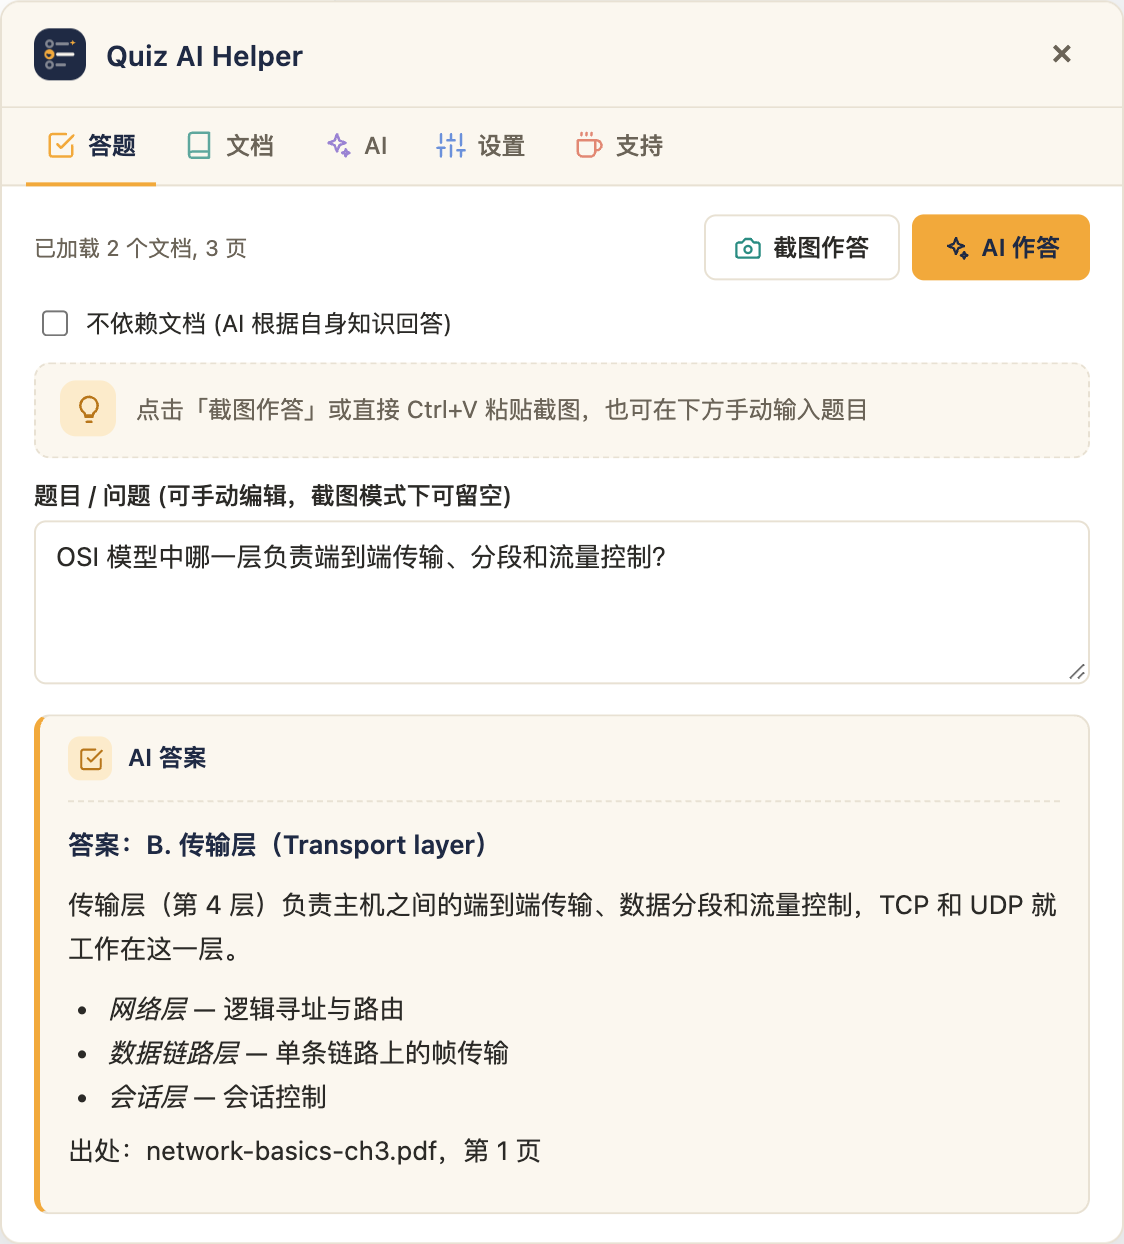
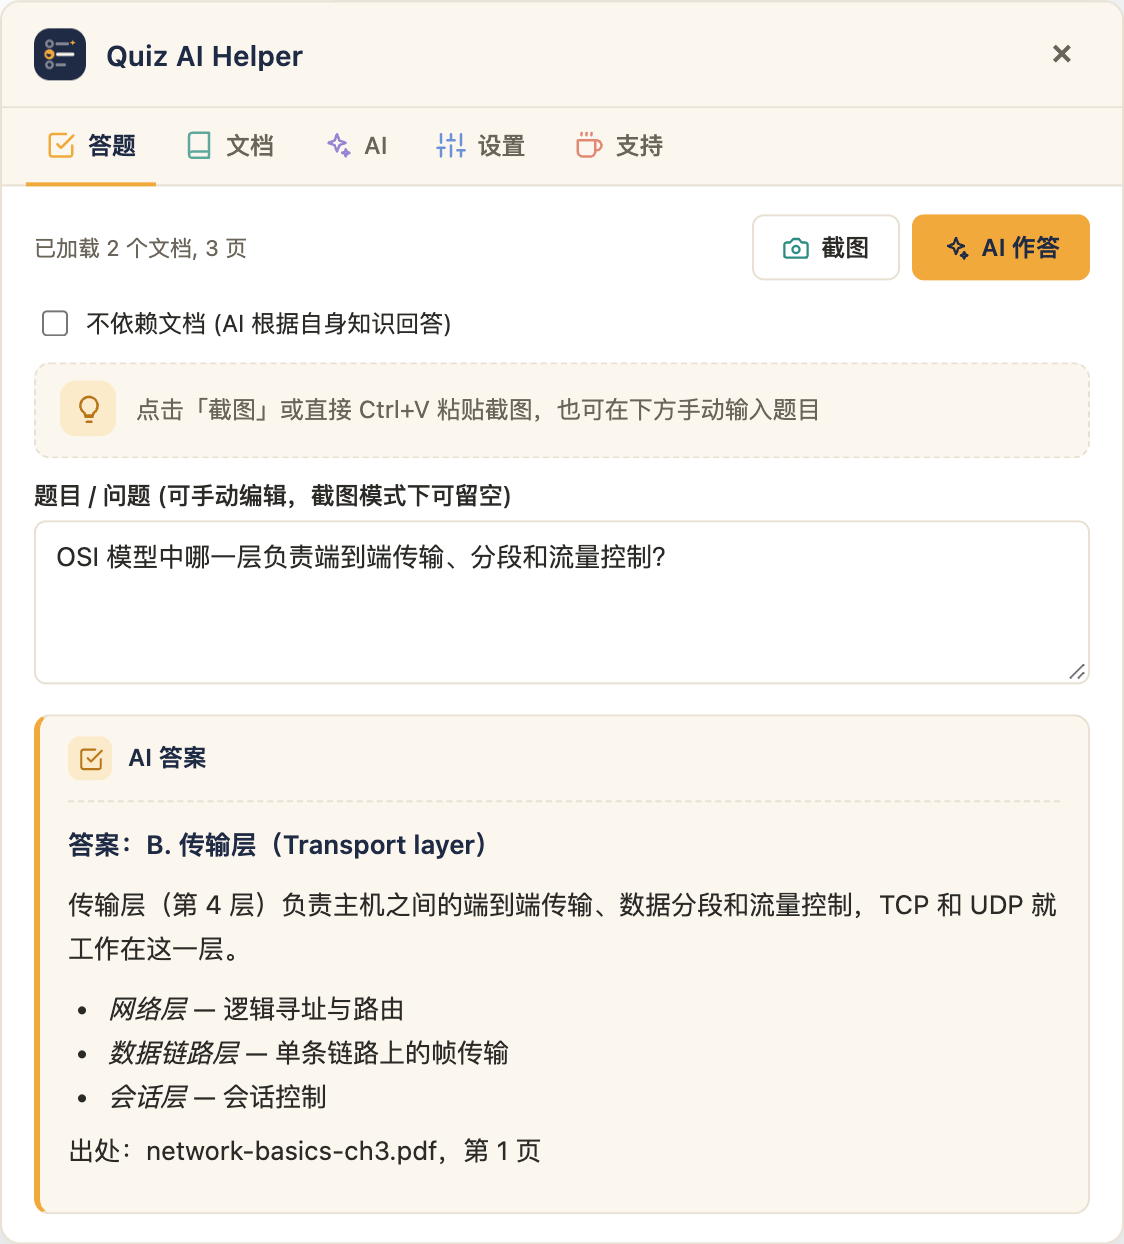
fix: use 截图 consistently for the zh screenshot button (hint, README, screenshots)

Changed region(s): [[0.218, 0.3055, 0.7785, 0.336], [0.6539, 0.1833, 0.7785, 0.2138]]

diff --git a/entrypoints/content/i18n.js b/entrypoints/content/i18n.js
@@ -13,7 +13,7 @@ export const I18N = {
     btnAsk: "AI 作答",
     noDoc: "不依赖文档 (AI 根据自身知识回答)",
     needDocsWarn: "请先在「文档」标签加载参考资料，或勾选「不依赖文档」",
-    hint: "点击「截图作答」或直接 Ctrl+V 粘贴截图，也可在下方手动输入题目",
+    hint: "点击「截图」或直接 Ctrl+V 粘贴截图，也可在下方手动输入题目",
     clearShot: "清除截图",
     questionLabel: "题目 / 问题 (可手动编辑，截图模式下可留空)",
     questionPh: "在此输入题目内容...",

diff --git a/README.zh-CN.md b/README.zh-CN.md
@@ -88,7 +88,7 @@ git tag v0.2.0 && git push --follow-tags
 
 回到 **答题** 标签，三种出题方式任选：
 
-- 点击 **截图作答**（或 `Alt+A`）截取当前页面
+- 点击 **截图**（或 `Alt+A`）截取当前页面
 - `Ctrl+V` 直接粘贴剪贴板截图
 - 在题目框中手动输入
 
